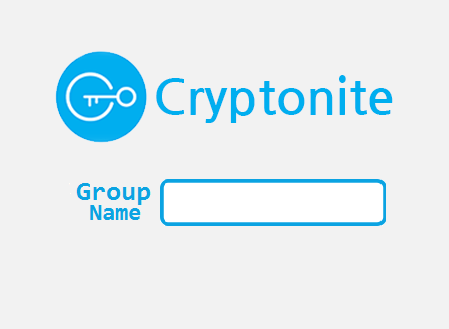
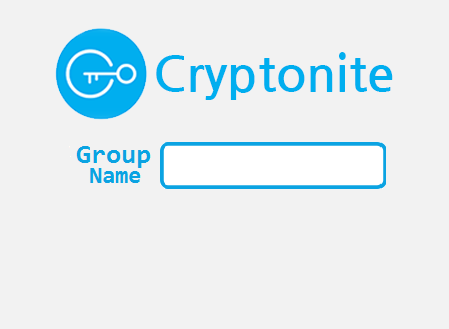
UI UPDATE

Changed region(s): [[0.1247, 0.0608, 0.8731, 0.6991], [0.4365, 0.3647, 0.4677, 0.3951]]

diff --git a/Cryptonite/src/Client/Client_Group_Name.java b/Cryptonite/src/Client/Client_Group_Name.java
@@ -53,7 +53,7 @@ public class Client_Group_Name extends JFrame{
 			System.out.println("Appilcation icon not found");
 		}	
 		setTitle("Cryptonite");
-        setBounds(710,200,600,300);
+        setBounds(449,329,449,329);
         setResizable(false);
         setDefaultCloseOperation(JFrame.DISPOSE_ON_CLOSE);
  
@@ -74,7 +74,7 @@ public class Client_Group_Name extends JFrame{
         _panel.setBounds(0, 0, 600, 300);
         
         _NameField = new JTextField(15);
-        _NameField.setBounds(190, 70, 200, 31);
+        _NameField.setBounds(173, 150, 200, 31);
         _NameField.setOpaque(true);
         _NameField.setForeground(Color.BLACK);
         _NameField.setBorder(javax.swing.BorderFactory.createEmptyBorder());
@@ -97,11 +97,12 @@ public class Client_Group_Name extends JFrame{
         _layeredPane.add( _NameField);
         
         _create = new JButton(new ImageIcon("gui/create.png"));//input buttonimage
-        _create.setBounds(100, 150, 400, 50);
+        _create.setBounds(70, 220, 141, 53);
         _create.setBorderPainted(false);
         _create.setFocusPainted(false);
         _create.setContentAreaFilled(false);
-        _create.setPressedIcon(new ImageIcon("gui/create.png"));
+        _create.setRolloverIcon(new ImageIcon("gui/createR.png"));
+        //_create.setPressedIcon(new ImageIcon("gui/create.png"));
         _create.addMouseListener(new MouseAdapter(){
          	public void mouseClicked(MouseEvent e){
          		String[] test = new String[3];
@@ -126,10 +127,11 @@ public class Client_Group_Name extends JFrame{
         
         
         _cancel = new JButton(new ImageIcon("gui/gn_cancel.png"));//input buttonimage
-        _cancel.setBounds(100, 150, 400, 50);
+        _cancel.setBounds(250, 220, 141, 53);
         _cancel.setBorderPainted(false);
         _cancel.setFocusPainted(false);
         _cancel.setContentAreaFilled(false);
+        _cancel.setRolloverIcon(new ImageIcon("gui/gn_cancelR.png"));
         _cancel.setPressedIcon(new ImageIcon("gui/gn_cancel.png"));
         
         _layeredPane.add(_cancel);
